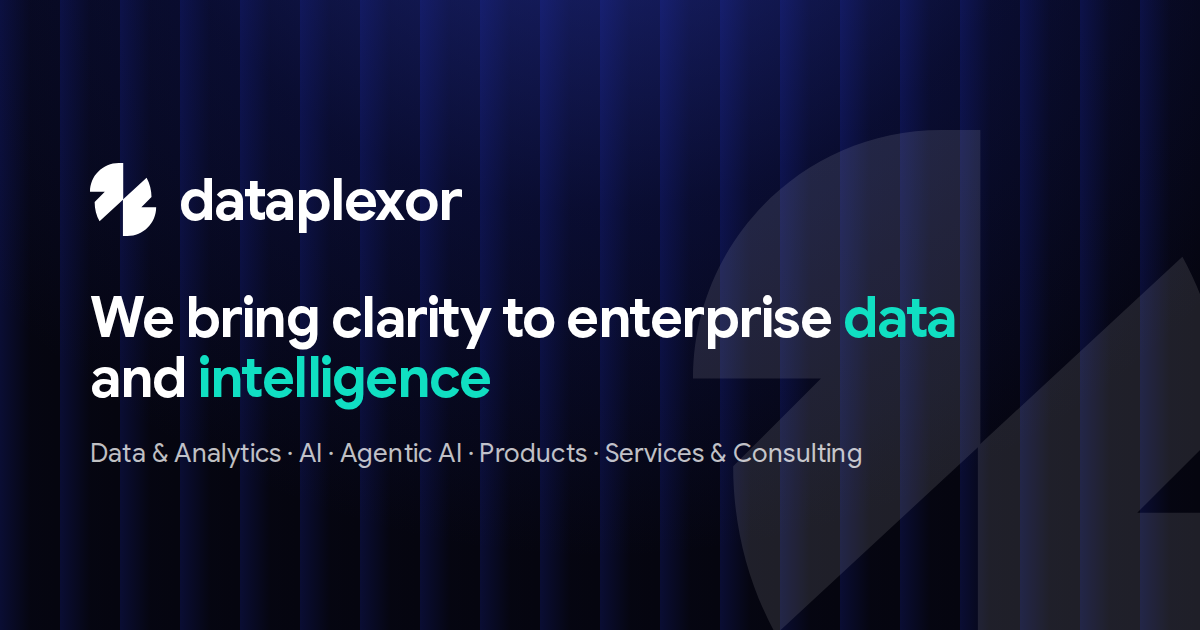
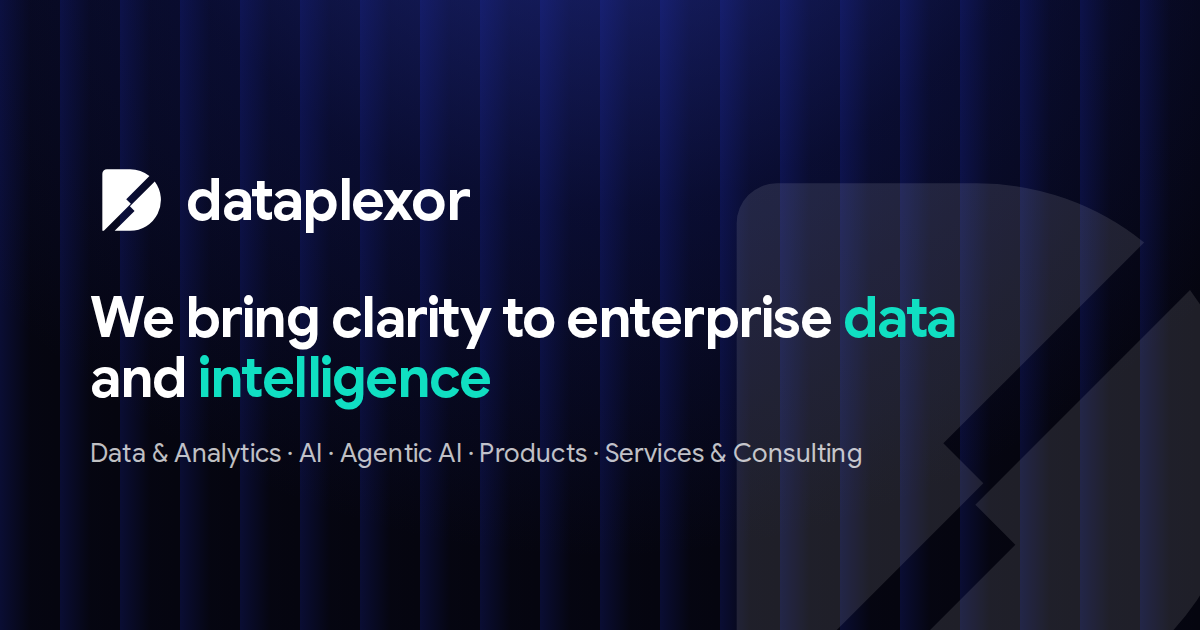
Redesign brand mark as interlocking D monogram
Evolve the previous two-piece interlock into a capital D for Dataplexor,
split by the same jogged diagonal channel — two data streams multiplexed
through one core. Applied across the site header/footer/admin, favicon,
standalone logo.svg (with outlined Google Sans wordmark), section
backdrops and the Open Graph image

Claude-Session: https://claude.ai/code/session_01YUXfKkY2fedQtq8ipAwnoB

diff --git a/components/Logo.tsx b/components/Logo.tsx
@@ -1,15 +1,17 @@
 import React from "react";
 
 /**
- * Dataplexor brand mark — two interlocking flow shapes (client-supplied).
- * Rendered with currentColor on a transparent background so it adapts to
- * any surface: ink on light, white on dark, brand blue where accented.
+ * Dataplexor brand mark — a capital "D" split into two interlocking
+ * pieces by a jogged diagonal channel: two data streams multiplexed
+ * through one core. Rendered with currentColor on a transparent
+ * background so it adapts to any surface: ink on light, white on dark,
+ * brand blue where accented.
  */
-export const LOGO_VIEWBOX = "0 0 46 51";
+export const LOGO_VIEWBOX = "0 0 48 48";
 
 export const LOGO_PATHS = [
-  "M35.4 30.5L42.4 23.5C42.4 18.7 41.2 14.1 39 10.1L22.7 25.2V50.3H25.8C36.7 50.3 45.6 41.5 45.6 30.5H35.4Z",
-  "M10.2 19.8L3.2 26.8C3.2 31.6 4.4 36.2 6.6 40.2L22.9 25.1V0H19.8C8.9 0 0 8.8 0 19.8H10.2Z",
+  "M8 7 A3 3 0 0 1 11 4 H26 A20 20 0 0 1 38.56 8.44 L23.5 23.5 L26.5 26.5 L9.0 44 H8 Z",
+  "M42.0 12.0 L25.9 28.1 L28.9 31.1 L16.0 44 H26 A20 20 0 0 0 42.0 12.0 Z",
 ];
 
 export function LogoMark({ className = "h-8 w-8" }: { className?: string }) {
